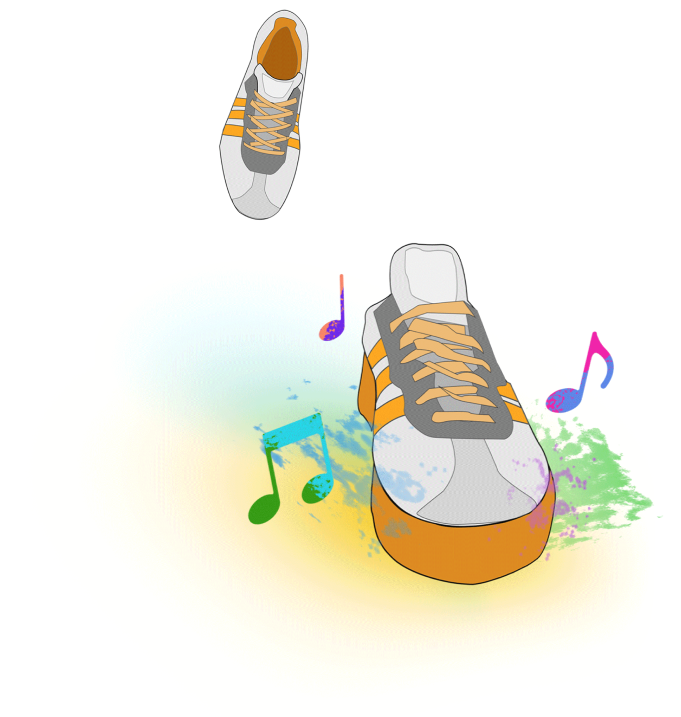
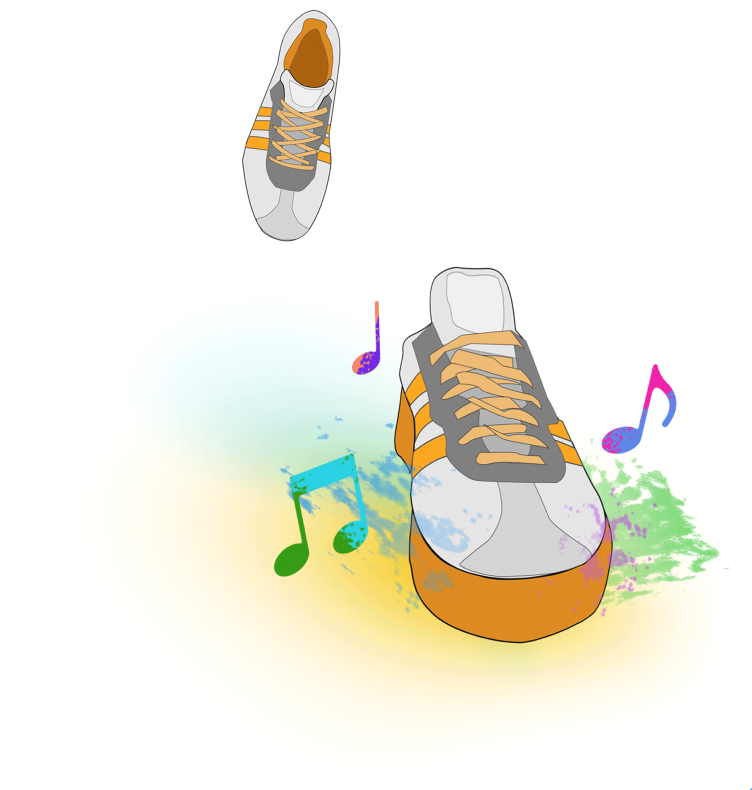
1ページ目完成

diff --git a/index.html b/index.html
@@ -6,14 +6,22 @@
   <link rel="stylesheet" href="style.css">
 </head>
 <body>
+<!-- 本文 -->
 <div class="container">
   <p>あなたはすでに楽器を持っている</p>
   <p>あとは</p>
   <h1>好きなように動き回るだけ</h1>
+  <!-- 靴の画像 -->
   <img class="image_shoes" src="shoes_fig.png">
-  <!-- 再生ボタン (ロード完了まで利用不可) -->
-  <button id="btn-play1" type="button" class="punch" disabled>音楽</button>
-  <input type="file" name="file" id="file" />
+  <div>
+    <!-- ファイル添付ボタン -->
+    <label for="file" class="filelabel">Turn the motion into music</label>
+    <input type="file" name="file" id="file" class="File"/>
+  </div>
+  <div class="music">
+    <!-- 再生ボタン (ロード完了まで利用不可) -->
+    <button id="btn-play1" type="button" class="punch" disabled>音楽</button>
+  </div>
 </div>
 <script src="https://cdnjs.cloudflare.com/ajax/libs/howler/2.1.3/howler.min.js"></script>
 <script src="app.js"></script>

diff --git a/style.css b/style.css
@@ -1,3 +1,7 @@
+body {
+    font-family: 'arial','メイリオ' ;
+}
+
 .punch{
     width:100px;
     height:40px;
@@ -5,12 +9,49 @@
     font-size:18px;
 }
 
+.music{
+    padding: 10px;
+}
+
 .container{
     text-align: center;
     padding: 20px 0;
+
 }
 
 .image_shoes{
-    width: 450px;
-    height: 450px;
+    width: 380px;
+    height: 380px;
+    position: absolute;
+    left: 0;
+    right: 0;
+    margin-left: auto;
+    margin-right: auto;
+    max-width: 80%;
+    max-height: 80%;
+}
+
+.filelabel{
+    margin-top: 380px;
+    display: inline-block;
+    position: relative;
+    background-color: #e0e0e052;
+    color: #FF8C38;
+    font-size: 16px;
+    padding: 10px 20px;
+    border-radius: 8px;
+    transition: all 0.5s;
+    box-shadow: 0px -2px 2px rgba(150, 149, 149, 0.495) inset
+}
+
+.filelabel:hover{
+    background-color: #b6b6b756;
+}
+
+.File{
+    display: none;
+}
+
+.button{
+    display: block;
 }

diff --git a/app.js b/app.js
@@ -202,6 +202,7 @@ function PlayMusic2(){
   //[event] ボタンクリック時に実行
   document.querySelector("#btn-play1").addEventListener("click", ()=>{
     //section1
+    SE2.play(MusicData[0]);
     console.log(MusicData[0]);
     //section2
     setTimeout(()=>{
